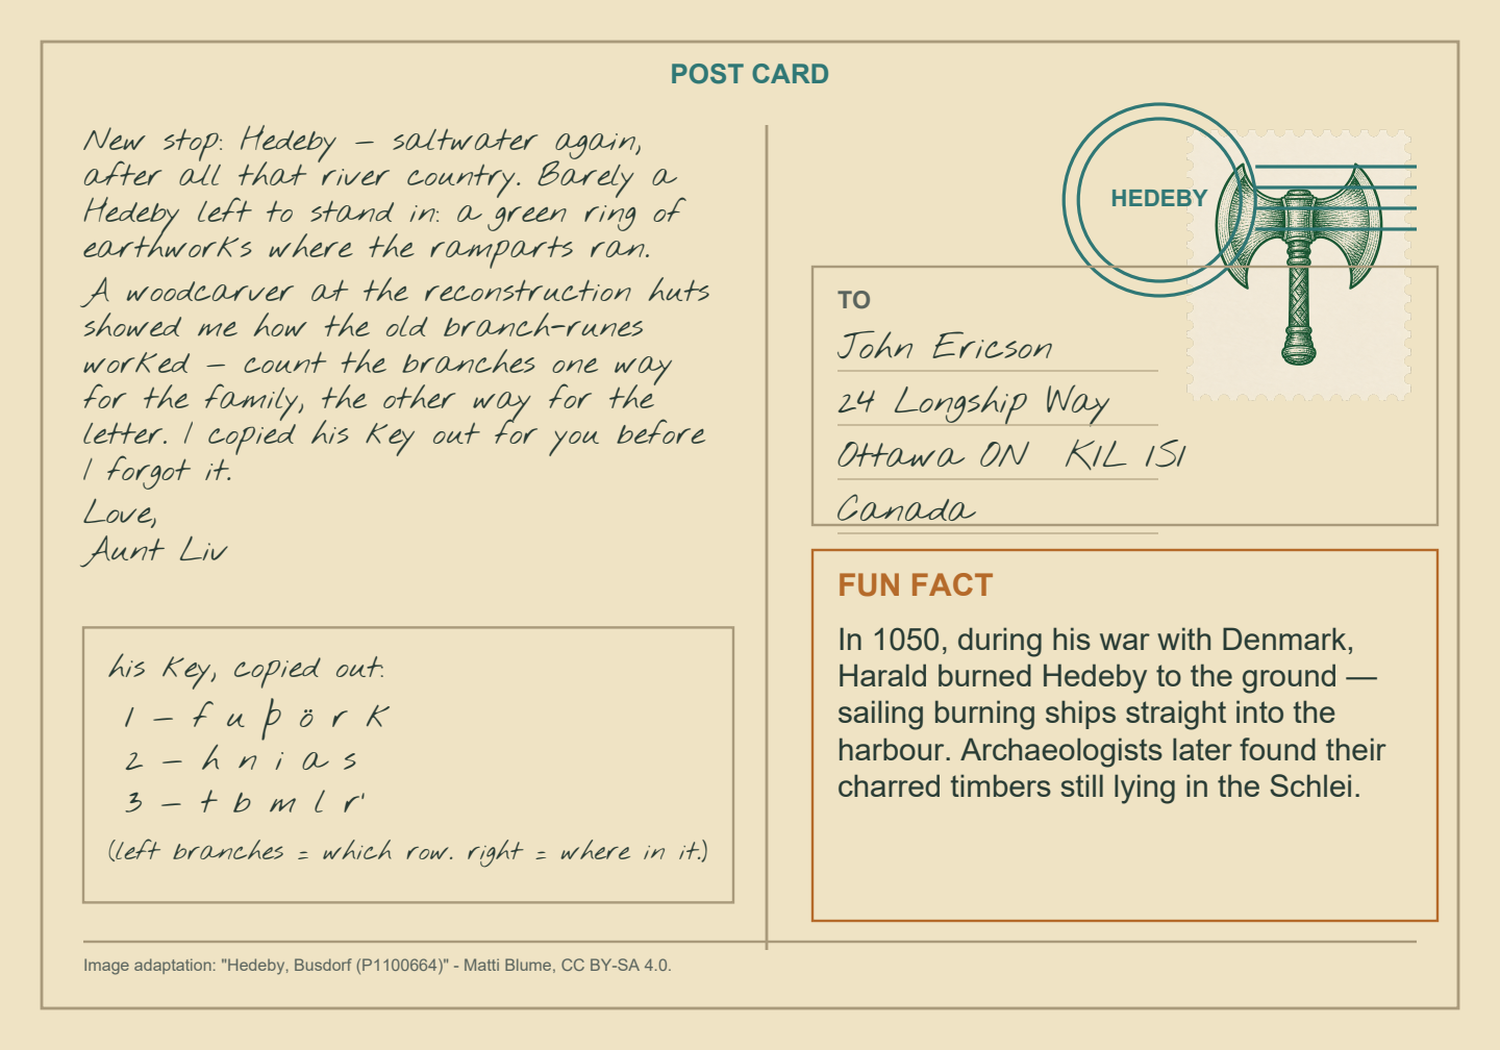
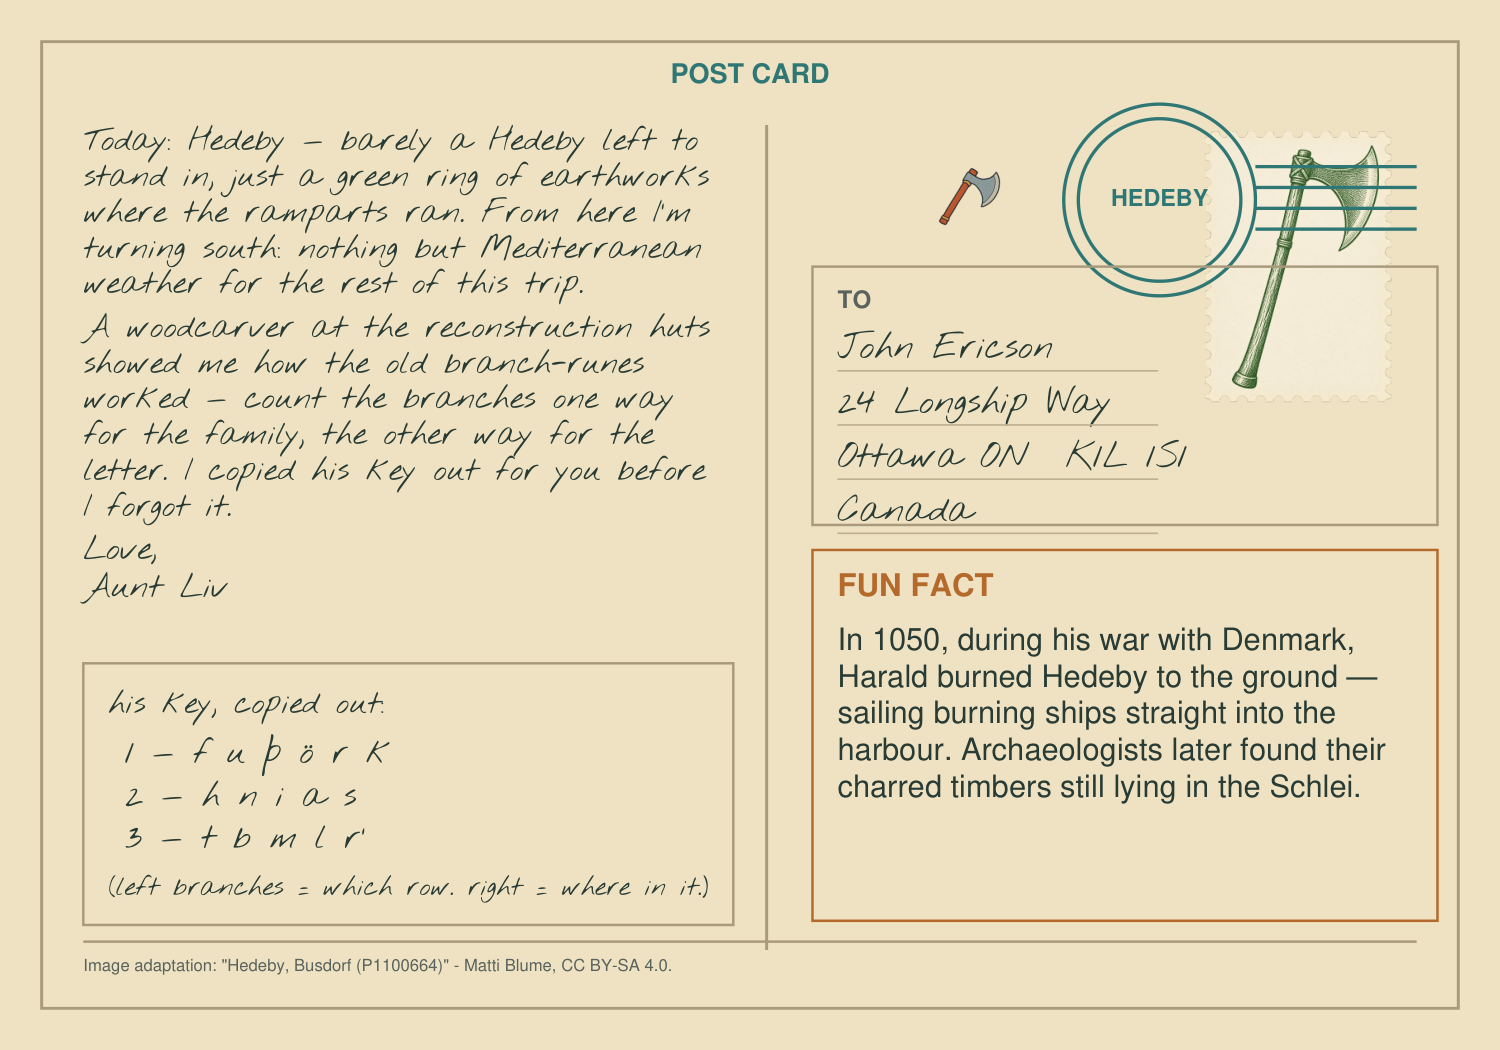
Regenerate all 22 postcard back images from the current print PDFs
The gallery's _Back.png files were separate one-off renders that never
shared a source with the PDF build scripts, so they drifted out of
sync with card text edits. Re-rendered each from its own
output/pdf/Postcard_*_Print.pdf (page 2) at the existing 300dpi
convention, so both artifacts now come from the same text.

diff --git a/HANDOFF.md b/HANDOFF.md
@@ -2,6 +2,38 @@
 
 Last updated: 2026-09-21 by Claude Code
 
+## Session close — 2026-09-21 — Regenerated all 22 postcard back images from the current print PDFs
+
+**Task:** user noticed the postcard gallery's back-of-card images (`Postcards/Postcard_*_Back.png`,
+shown in the Postcards tab) didn't reflect the latest message/Fun Fact text — asked to update them.
+
+**Root cause: the gallery `_Back.png` files were never generated from the same data as the PDFs.**
+Checked `build_postcard_A1_pdf.py` (representative of all 22 build scripts): `draw_front_card()`
+only places `Postcard_*_Front.png` full-bleed with no text, so the Front gallery images are already
+byte-identical to the PDF's own source art — those did not need touching. `draw_back_card()` draws
+the message, Fun Fact, stamp, postmark and element mark entirely from hardcoded strings in the
+script — there is no code path that ever wrote those pixels out to `_Back.png`. That file was a
+separate, one-off render that drifted out of sync every time a card's text was revised afterward
+(confirmed: re-rendering all 22 changed all 22 — none matched their current PDF).
+
+**Fix:** rendered page 2 (the back) of each `output/pdf/Postcard_*_Print.pdf` to PNG with PyMuPDF at
+300dpi (matching the existing 1500×1050 convention exactly) and overwrote the corresponding
+`NorseBackpack/Postcards/Postcard_*_Back.png` in place — same filenames, so no HTML changes needed.
+This makes the print PDF the one source of truth for both artifacts going forward; any future text
+edit only needs a PDF rebuild + this same re-render step to stay in sync.
+
+**Files changed:** 22 PNGs under `NorseBackpack/Postcards/` (`*_Back.png` only — Fronts untouched,
+confirmed unnecessary). No PDF, script or HTML changes.
+
+**Checks run:** confirmed all 22 outputs are exactly 1500×1050 RGB, matching the pre-existing
+convention. Visually inspected two renders directly (A1 Dögurðarnes, R6 Roumare Forest) — text,
+stamp, postmark and Fun Fact box all render cleanly and match the current build-script content.
+`git status` confirmed exactly the 22 `_Back.png` files changed, nothing else touched.
+
+**Next action:** none outstanding from this task. If postcard text changes again in a future
+session, re-run the same PDF-page-to-PNG render for the affected card(s) rather than hand-editing
+the PNG.
+
 ## Session close — 2026-09-21 — Fixed broken map images on GitHub Pages; added a consolidated tickets/props gallery
 
 **Task:** two follow-ups in the same day's thread. (1) User reported the trail-map images showing
